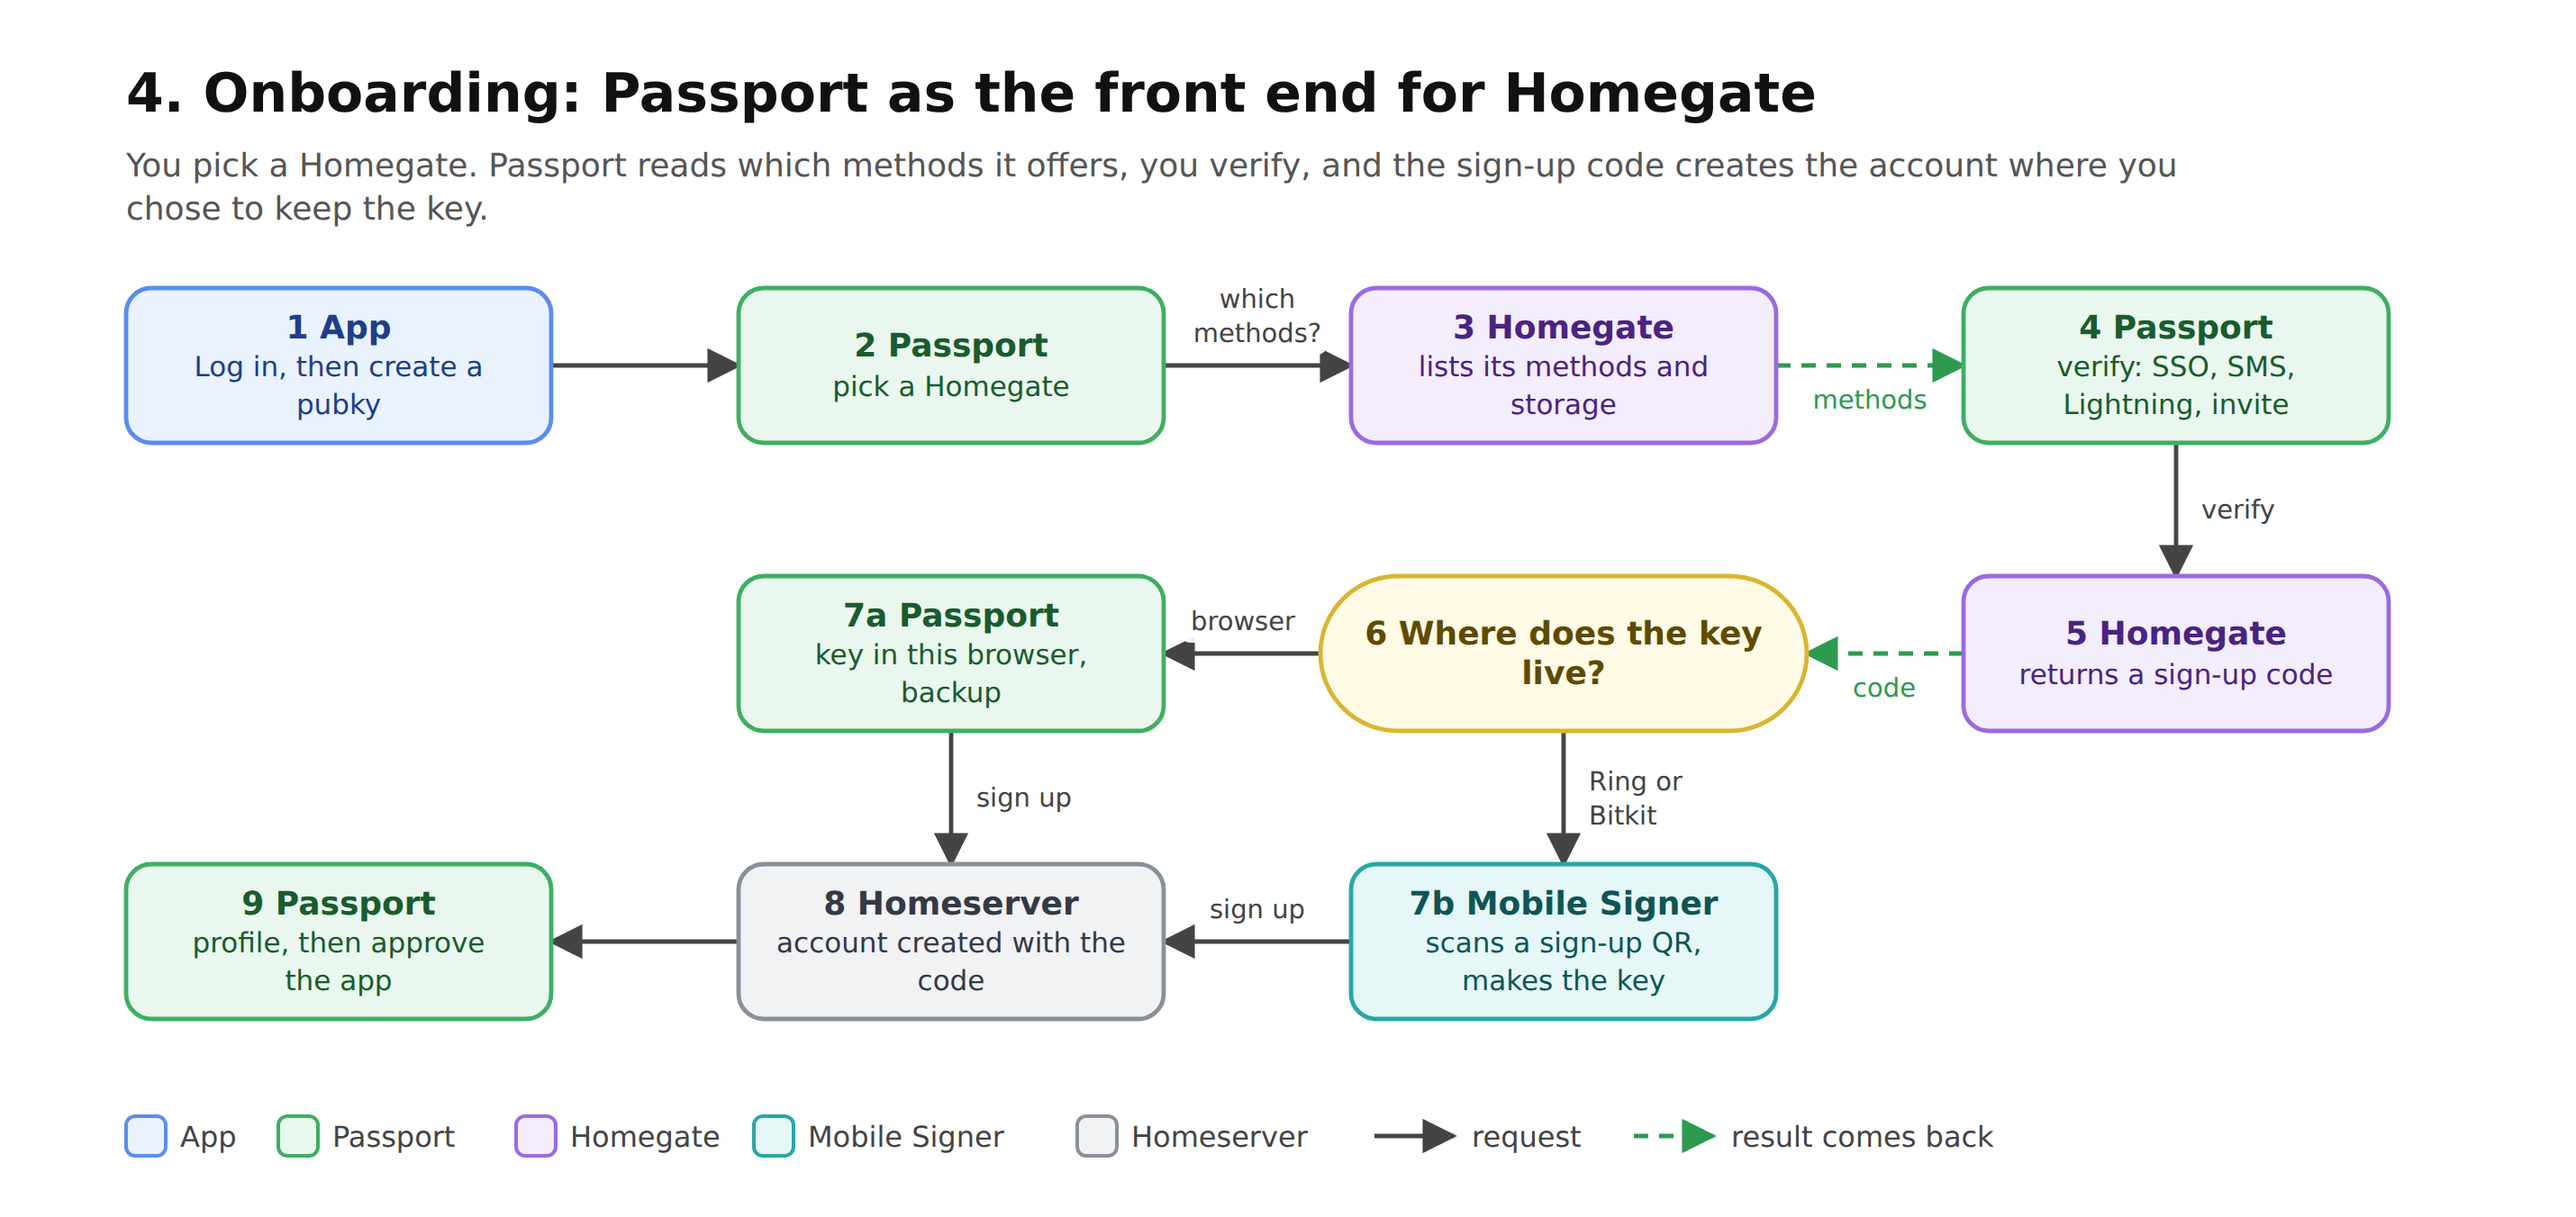
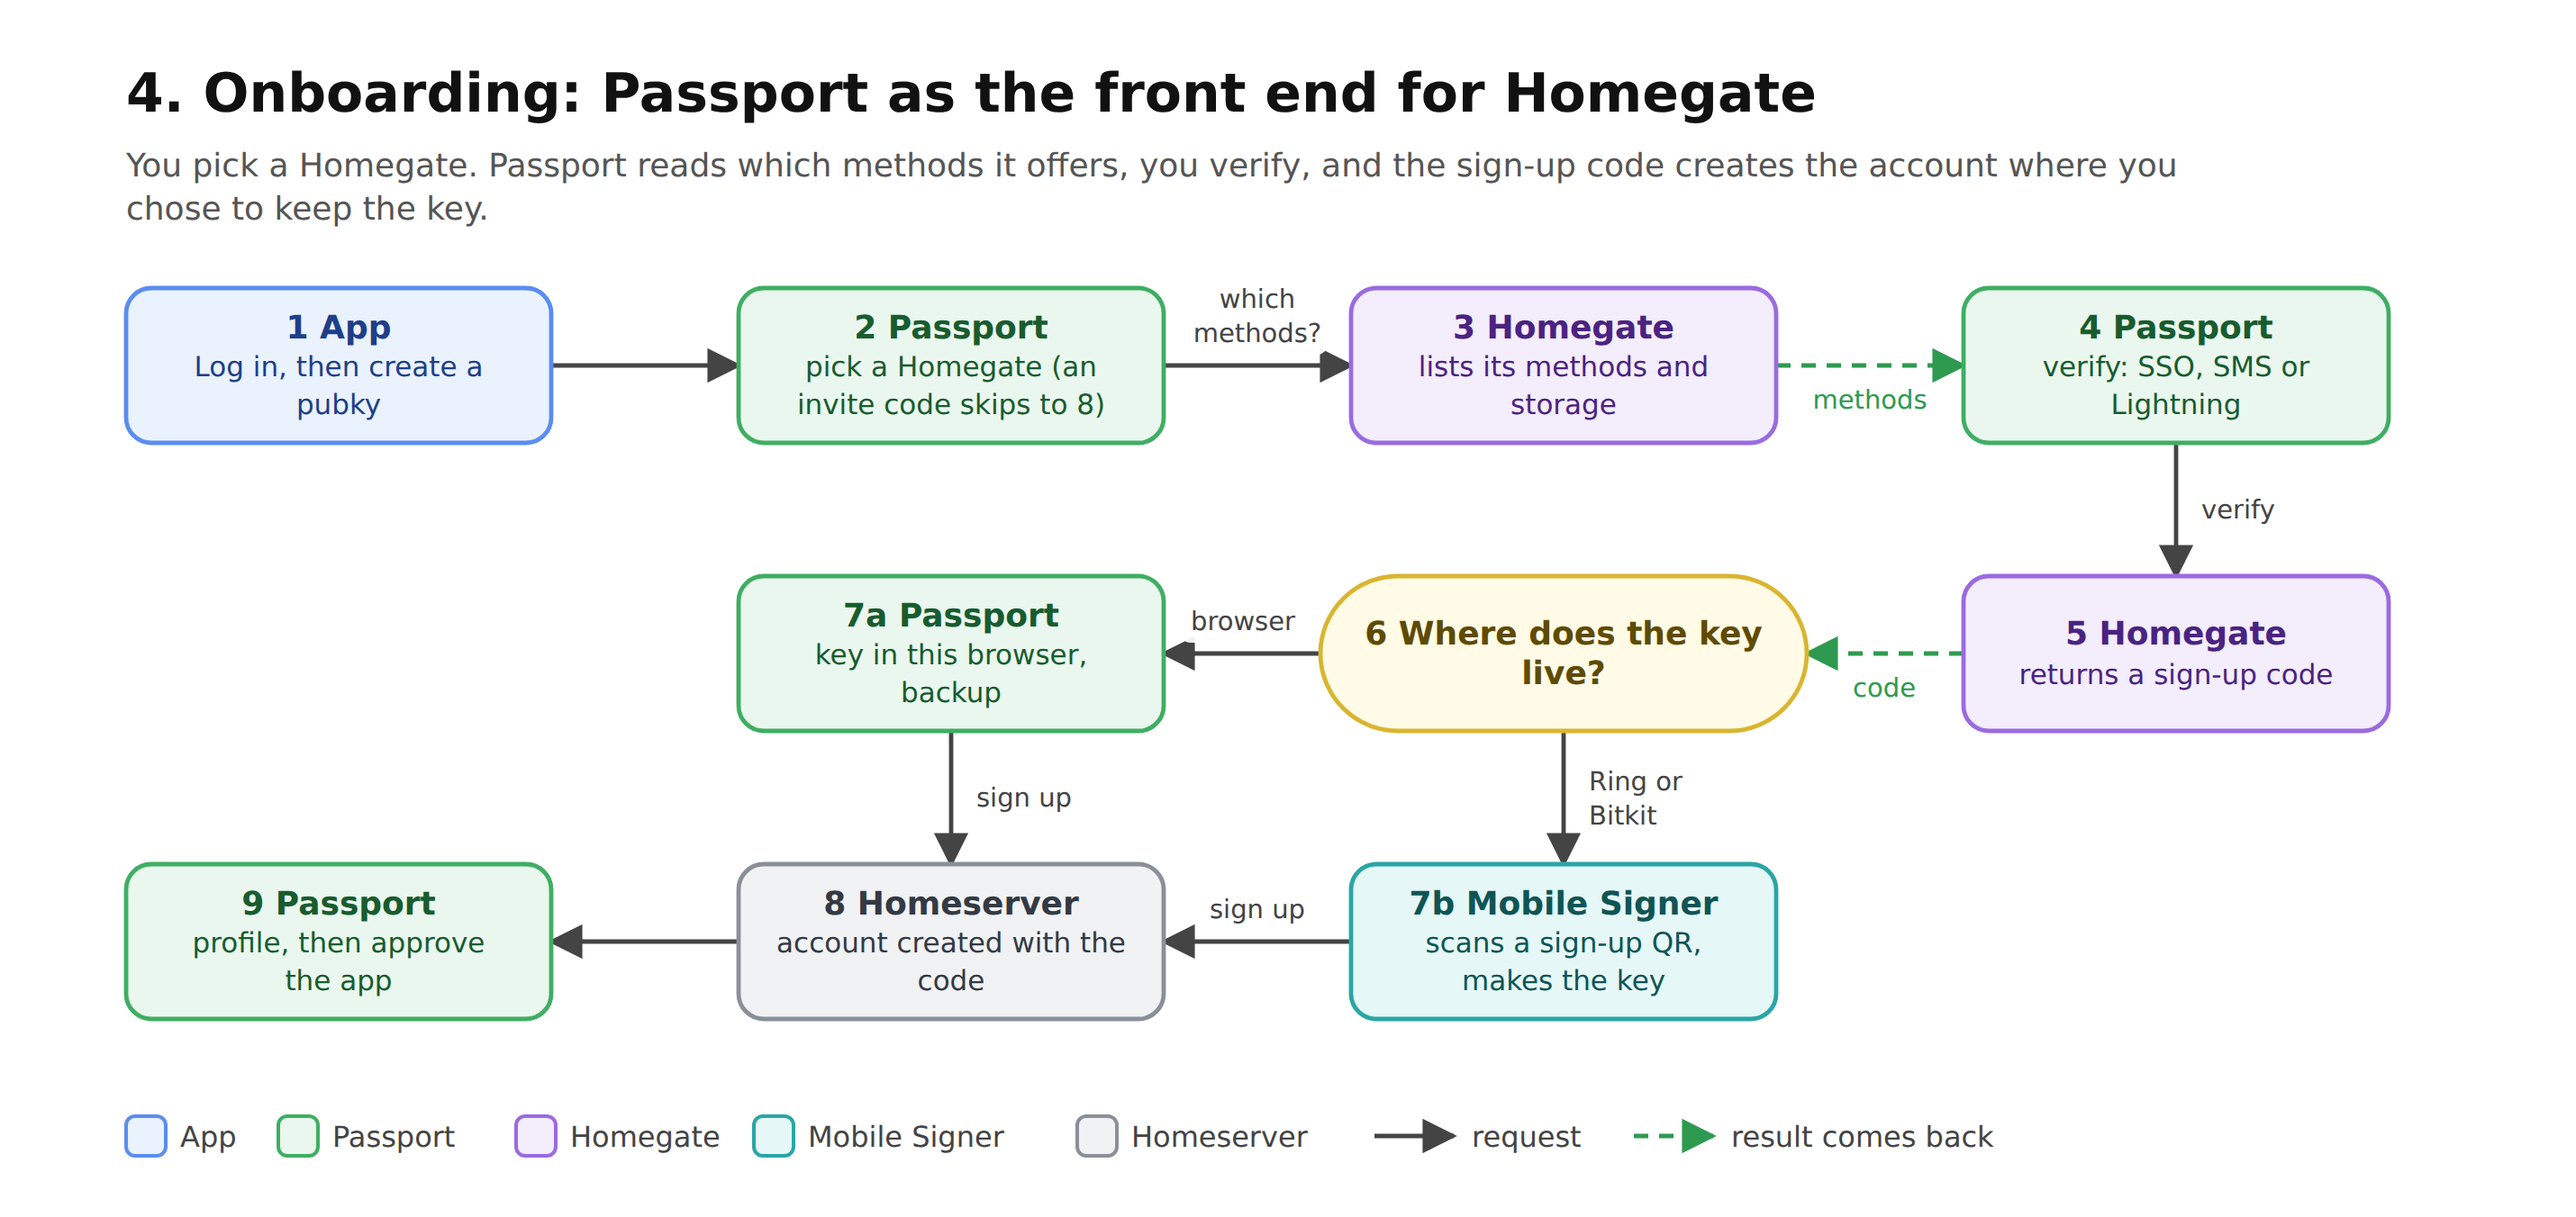
docs(rfc): invite codes go straight to the homeserver, note finding Homegates on the network

Changed region(s): [[0.3112, 0.2485, 0.4357, 0.3417], [0.778, 0.2796, 0.9024, 0.3417]]

diff --git a/docs/rfc/0002-passport-vision.md b/docs/rfc/0002-passport-vision.md
@@ -21,7 +21,7 @@ RFC 0001 covers how Pubky Accounts signs you in through Passport. This RFC build
 - Passport's only server routes are the two wrapping key endpoints, one for Google and one for Apple.
 - Passport doesn't show a Mobile Signer QR code and doesn't create profiles. Each Passport instance has one Homegate address, and that Homegate decides the homeserver. You can't choose either.
 - A Passport v2 prototype already has a Mobile Signer QR code that watches the relay, SMS, Lightning, and invite code sign-up steps, profile setup, and a Passport instance picker in its client package. It's built on an older version of Passport.
-- Homegate verifies by SMS, Lightning, IP address, Google, and Apple. Each method is on only when its section is in the config file. A Homegate serves one homeserver and gets sign-up tokens from that homeserver's admin API. No endpoint tells a client which methods are on. Homegate has no invite codes and no wrapping key code.
+- Homegate verifies by SMS, Lightning, IP address, Google, and Apple. Each method is on only when its section is in the config file. A Homegate serves one homeserver and gets sign-up tokens from that homeserver's admin API. No endpoint tells a client which methods are on. Homegate has no wrapping key code.
 - pubky.app runs its own onboarding: SMS, Lightning, or an invite code, then install Pubky Ring or Bitkit, scan, profile, tags, and follow suggestions.
 - Pubky Ring creates a pubky from a sign-up link that carries a sign-up token, and signs up on the homeserver itself. It has no Homegate code and doesn't support parent grants yet. Bitkit is also a Mobile Signer and gets its sign-up code from Homegate directly.
 - Delegated grants (parent and child grants) are on the homeserver's main branch, not in the current SDK release (0.18.0).
@@ -107,8 +107,8 @@ Tradeoffs:
 
 New users create their pubky in Passport, wherever they started:
 
-1. You select **Create a pubky** and pick a Homegate. Passport offers its own list, and you can add one by address or choose your own homeserver with no Homegate.
-2. Passport reads the Homegate's discovery endpoint and shows only the methods that Homegate offers: SSO provider, SMS, Lightning, or an invite code.
+1. You select **Create a pubky** and pick a Homegate. Passport offers its own list, and you can add one by address. If you have an invite code, you skip the Homegate (see below).
+2. Passport reads the Homegate's discovery endpoint and shows only the methods that Homegate offers: SSO provider, SMS, or Lightning.
 3. You verify. The Homegate returns a sign-up code and its homeserver.
 4. You choose where the key lives:
    - **In this browser:** Passport creates the key, signs up on the homeserver, and saves a backup with the SSO provider or as a recovery file.
@@ -122,7 +122,9 @@ New users create their pubky in Passport, wherever they started:
 What it needs:
 
 - The Homegate discovery endpoint (next section).
-- The SMS, Lightning, and invite code steps, moved from pubky.app or the v2 prototype. An invite code is a homeserver sign-up token, and Passport can check it with the homeserver's public `GET /signup_tokens/{token}`.
+- The SMS, Lightning, and invite code steps, moved from pubky.app or the v2 prototype.
+
+Invite codes don't go through Homegate. An invite code is a sign-up token the homeserver's operator made with the admin API. Passport checks it with the homeserver's public `GET /signup_tokens/{token}` and signs up on the homeserver with it directly. The invite link has to carry the homeserver's public key next to the code, as Ring's sign-up links already do. This is also how a homeserver with no Homegate takes new users.
 
 Benefits:
 
@@ -133,7 +135,7 @@ Tradeoffs:
 
 - The screens differ per Homegate, because each one turns on different methods.
 - Passport grows: SMS, Lightning, and profile screens move in from pubky.app.
-- SSO backup needs a Homegate with the wrapping key module. A homeserver without one supports import and Mobile Signers only.
+- SSO backup needs a Homegate with the wrapping key module. A homeserver without one still takes invite codes, but its users keep a recovery file or keep the key in a Mobile Signer.
 - pubky.app sends iOS users to Ring for sign-up, because Bitkit on iOS can't open sign-up links yet. Passport needs the same rule.
 
 ## Homegate: an optional front door for public homeservers
@@ -142,12 +144,13 @@ Homegate becomes a small public protocol between Passport and any homeserver tha
 
 ![Homegate](images/0002-06-homegate.png)
 
-- **Modules.** Each verification method is its own module, on only when the operator configures it. Homegate already works this way. Today it has SSO (Google, Apple), SMS, Lightning, and IP address. New modules could add invite codes and the wrapping key.
+- **Modules.** Each verification method is its own module, on only when the operator configures it. Homegate already works this way. Today it has SSO (Google, Apple), SMS, Lightning, and IP address. A new module could add the wrapping key. Invite codes need no module, because Passport uses them with the homeserver directly.
 - **Discovery.** One new endpoint, `GET /info`, returns what Passport needs: the homeserver's public key, the methods that are on and their settings (for example the Lightning price), the storage each method gives, the operator's name, and its terms and privacy links. Passport shows only what is on. The v2 prototype keeps this data in Passport's own config today; it would move to the Homegate that owns it.
 - **Wrapping key module.** The two wrapping key endpoints move from Passport's server into Homegate. Homegate must derive the same key as Passport does today: HKDF-SHA256 with the same secret keyring, salt, and info. Otherwise existing backups can't be unlocked. After the move, Passport has no server routes and can run as a static site that anyone hosts.
   - Each SSO identity depends on the Homegate that holds its wrapping key. The backup records which Homegate and key ID to ask.
   - Each Homegate with SSO needs its own Google client ID and Apple Services ID.
 - **Run by anyone.** Homegate ships as a Docker image with Postgres and a config file. SMS uses Prelude and Lightning uses PhoenixD today; operators bring their own accounts.
+- **Finding Homegates.** Each Passport instance lists the Homegates it knows, and you can add one by address. Finding Homegates on the network, for example a homeserver publishing its Homegate's address, is possible later but not a priority.
 - **One homeserver per Homegate,** as today. An operator with several homeservers runs several Homegates.
 
 ## App integration
